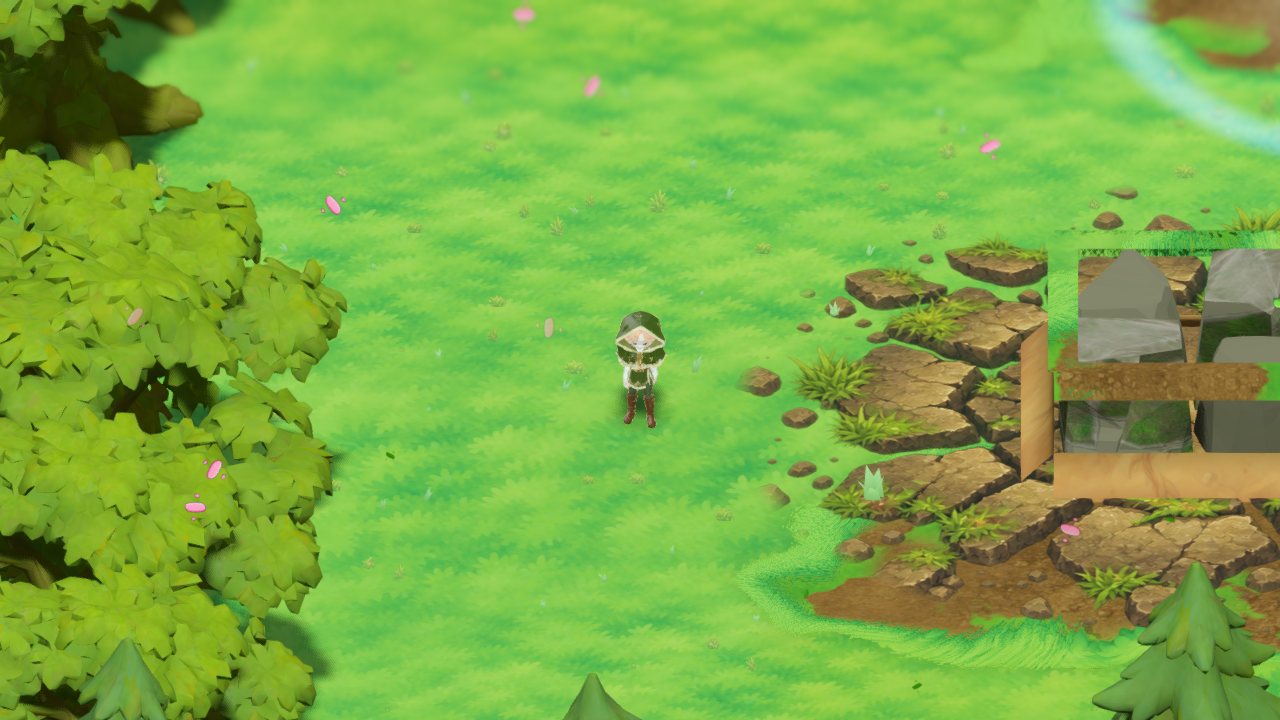
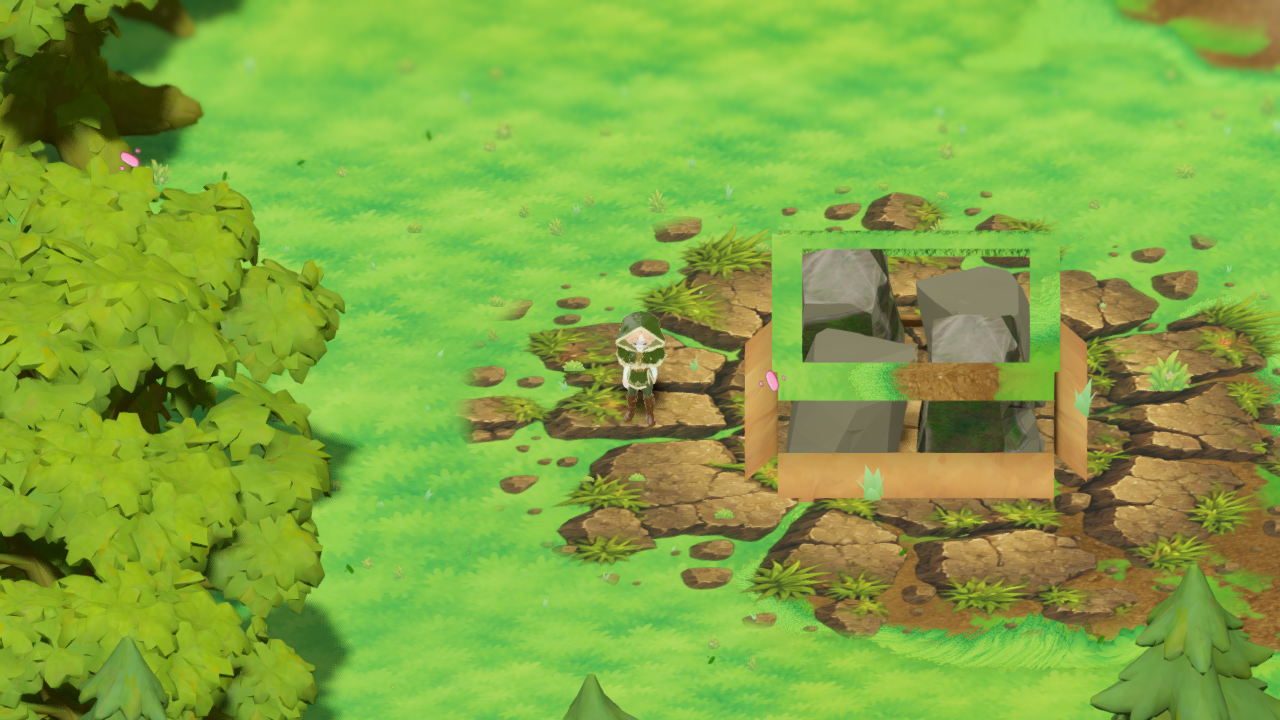
TierraToy rehecho con la piedra del mundo: rocas estilizadas del mapa con su textura, sombreadas por la escena (DIARIO 421)
Sin cambios de API ni ciclo. Hallazgo: en el juego el muro de tierra se dibuja tres veces (terreno levantado, vestido gris del Lanzador y toy). Pruebas viento_tierra_toy, vfx_en_juego, lab_vfx_toys, consola y magma a 0.

diff --git a/docs/DIARIO.md b/docs/DIARIO.md
@@ -4798,3 +4798,9 @@ Pablo entregó el arte (escombro_arriba.png, escombro_terreno.glb, vapor.png, na
 
 Pablo pidió un laboratorio para inspeccionar el enganche; por la regla de no crear labs nuevos va en la pestaña F4 de `laboratorios/LabHechizos3D.tscn` (la matriz de aprobación de VFX, que ya lanza por el camino real: el lab cuelga de la maqueta, que conecta `VfxToyJuego`). `LabVfx3D`: el eje «estado» cubre también los derivados (magma, naturaleza, hielo, al final: las claves viejas no cambian; 720 celdas, el criterio sigue en las 24 base de los seis estados de siempre). Al abrir F4 el ajuste `magic_symbols/vfx_procedural` arranca en true y al salir de F4 o cerrar el lab vuelve a como estaba. **V** lo apaga/enciende en caliente; **F** pasa el elemento de la fila elegida de toy a pieza antigua (`vfx_procedural_elementos`). El HUD dice «PROCEDURAL: sí/no · toys: …» y, tras cada lanzamiento, cuántos toys creó `VfxToyJuego` (`creados`, `vivos()`), las luces y las partículas medidas.
 **Pruebas.** `prueba_lab_vfx_toys` FALLOS 0 (filas nuevas, la celda base de fuego/agua/rayo/magma/viento/tierra crea toys, V y F, json con claves viejas, ajuste restaurado); `escenario_lab_hechizos` (contadores 480 → 720) y `escenario_lab_recetas` 0; errores_consola 0. Captura en `docs/capturas/lab_hechizos_f4_toys/`. **Pendiente:** con la cámara de juego la celda cae entre la hierba y el toy no se distingue en la foto: verlo en vivo.
+
+## 421 — VFX (6/11): **TierraToy rehecho con la piedra del mundo** (Pablo: «sale como tablones naranja planos») — `presentacion/vfx/toy/tierra_toy.gd`, `tierra_roca.gdshader`, `impacto_tierra_toy.gd`, `herramientas/prueba_viento_tierra_toy.gd`, `captura_toys_nuevos_juego.gd`
+
+Rehecho el ASPECTO sin tocar API, ciclo ni la máquina sube/hunde. **Mallas:** las rocas estilizadas del mapa (`arte/meshy/piezas/roca_est_0..4` grandes, `piedra_est_0..4` pequeñas) con su textura `tex_rocas_est/rocas_albedo.png`, cargadas del GLB una vez (`TierraToy.malla_roca`, el acceso de ImpactoMagmaToy). BOLA = piedra_est_0 ajustada a los semiejes; MURO = roca_est_1/2/0 escaladas y giradas con semilla, solapadas, con piedrecitas al pie; PILAR = roca_est_4 alta + 4 bajas; BARRERA = corona inclinada; HAZ = púas alargadas; terrones e impacto = piedra_est_1. Un MultiMesh por tipo de roca (≤ 5), ≤ 24 rocas por figura, todo por CPU. **Shader:** ya no es unshaded de tres tonos: textura + luz de la escena (mate, sin especular ni emisión) como las rocas de ArteEntorno3D, con un velo del 10 % de `COLOR["piedra"]`, tono por instancia y la base manchada de tierra. Polvo pardo acercado a la tierra del suelo del bosque.
+**Hallazgo:** en el juego, sobre un muro de tierra se dibujan TRES cosas a la vez: el TERRENO levantado (`Terreno3D.alturas` pinta paredes tan con tapa de tierra), el vestido gris de `VfxTierra.vestir_bloque` sobre el `BloqueTierra` sólido del Lanzador, y encima el toy. Los «tablones naranja» que vio Pablo eran sobre todo las paredes del terreno, no el toy. Pendiente de decisión: dejar una sola representación (el toy) y callar vestido y paredes cuando `usa_toy("tierra")`.
+**Pruebas.** `prueba_viento_tierra_toy` ajustada (estilo lit, mallas del mapa, «bajo tierra» relativo al alto de cada roca) 0; `prueba_vfx_en_juego`, `errores_consola`, `lab_vfx_toys`, `magma_toy` 0. Capturas: `docs/capturas/viento_tierra_toy/tierra_*` (lab: hilera de rocas con la textura, piedrecitas al pie) y `docs/capturas/vfx_en_juego/toys_nuevos/tierra_muro_*` (el caso pasa a 1 casilla para que quepa en el encuadre).
